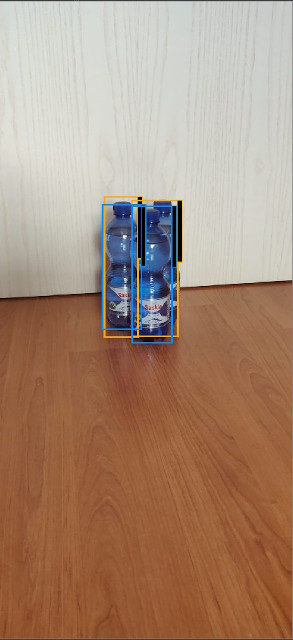
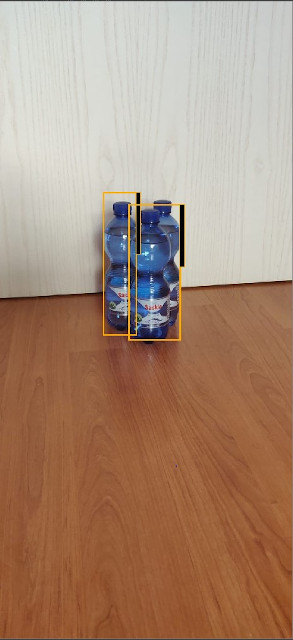
projectwork: finished yolo results

Changed region(s): [[0.3379, 0.2812, 0.6451, 0.5625]]

diff --git a/ProjectWork/Inhalt/09_Ergebnisse/ergebnisse.tex b/ProjectWork/Inhalt/09_Ergebnisse/ergebnisse.tex
@@ -69,18 +69,22 @@ Die Detektion reagierte allerdings invariant gegenüber unterschiedlichen Hinter
 
 Um eine möglichst gute Aussage über den Vergleich der beiden Objektdetektoren treffen zu können kommt bei \textit{YOLO} der exakt gleiche Trainings- und Testdatensatz wie beim \textit{SSD} zum Einsatz. Das Training von \textit{YOLO} ergab eine \textit{mAP} von 80.36\%. Abbildung \ref{yolo_result} zeigt die Verbesserung des Modells während dem Trainingsprozess. 
 
-\begin{figure}[ht]
+\begin{figure}[H]
 	\begin{center}
 		\includegraphics[width=13cm]{Bilder/yolo_result.png} 
-		\caption{Entwicklung von \textit{text} und \textit{mAP} während dem Trainingsprozess von \textit{YOLO}}
+		\caption{\textit{YOLO}: Entwicklung von durchschnittlichem Verlust (avg loss) und \textit{mAP} während dem Training}
 		\label{yolo_result}
 	\end{center}
 \end{figure}
 
-Wie beim \textit{SSD} erreicht das Modell relativ frühzeitig nach bereits etwa 4000 Batches eine \textit{mAP} von 79\%, woraufhin das Training vor Erreichung der durch die Dokumentation nahegelegte maximale Anzahl an Batches abgebrochen wurde. Das kann darauf zurückgeführt werden, dass es sich bei den gelabelten Klassen um Objekte des gleichen Typs handelt. Tabelle \ref{table:yoloresults} zeigt die \textit{mAP} für jede gelabelte Klasse:
+Wie beim \textit{SSD} erreicht das Modell relativ frühzeitig nach bereits etwa 3600 Batches eine \textit{mAP} von 79\%. Das Training wurde daher vor Erreichung der durch die Dokumentation nahegelegte maximale Anzahl an Batches nach 11000 Batches abgebrochen. Das kann darauf zurückgeführt werden, dass es sich bei den gelabelten Klassen um Objekte des gleichen Typs handelt und das Modell dementsprechend leichter trainiert werden kann. 
+
+Der \textit{confidence score} liegt standardmäßig bei 0.25. Nach mehreren Durchläufen stellt sich heraus, dass dieser Wert nicht verändert werden sollte. Ein zu geringer Wert sorgt zwar dafür, dass möglicherweise mehr Objekte erkannt werden. Allerdings steigt damit auch die Rate an falsch erkannter Objekte. Ein Parameter für die Obergrenze der Überlappung zweier Bounding Boxen existiert nicht.
+
+Tabelle \ref{table:yoloresults} zeigt die \textit{mAP} für jede gelabelte Klasse:
 
 \begin{center}
-	\begin{tabular}[h]{l|c}
+	\begin{tabular}[H]{l|c}
 		Klasse & mAP \\
 		\hline
 		Saskia Wasser Groß & 76.69\% (-0.93\%)\\
@@ -99,7 +103,7 @@ Wie beim \textit{SSD} erreicht das Modell relativ frühzeitig nach bereits etwa 
 
 Auffällig niedrig ist die \textit{mAP} der Klassen \textit{Pepsi Cola Groß} und \textit{Pepsi Cola Klein}. Ein reiner Wertevergleich gibt jedoch keinen guten Einblick in den tatsächlichen Unterschied der zwei trainierten Modelle. Deshalb wird im folgenden das Detektionsverhalten auf den gleichen Bildern wie zuvor bei SSD evaluiert:
 
-\begin{figure}[ht]
+\begin{figure}[H]
 	\centering
 	\subfigure[verdeckt]{\includegraphics[width=0.30\textwidth]{Bilder/yolo_verdeckt.jpg}}
 	\hspace{2cm}
@@ -107,36 +111,39 @@ Auffällig niedrig ist die \textit{mAP} der Klassen \textit{Pepsi Cola Groß} un
 	\caption{Detektionsverhalten von \textit{YOLO} bei extremen Blicklagen}
 	\label{lagen_yolo}
 \end{figure}
- 
-\begin{figure}[ht]
+
+Auch bei \textit{YOLO} können verdeckte Objekte nur schwer erkannt werden. Ein Unterschied zeigt sich bei der Ansicht von oben (siehe Abbildung \ref{lagen_yolo}). Hier werden zwei von drei Flaschen erkannt, die allerdings der falschen Klasse (\textit{Saskia Wasser Groß} statt \textit{Saskia Wasser Klein}) zugeordnet werden und eine der zwei Bounding Boxes zwei Flaschen umschließt.
+
+\begin{figure}[H]
 	\subfigure[1 Meter]{\includegraphics[width=0.30\textwidth]{Bilder/yolo_entfernung1.jpg}}\hfill
 	\subfigure[2 Meter]{\includegraphics[width=0.30\textwidth]{Bilder/yolo_entfernung2.jpg}}\hfill
 	\subfigure[3 Meter]{\includegraphics[width=0.30\textwidth]{Bilder/yolo_entfernung3.jpg}}\hfill
 	\caption{Detektionsverhalten von \textit{YOLO} bei unterschiedlichen Entfernungen}
 	\label{entfernung_yolo}
 \end{figure}
+
+Wie bei \textit{SSD} erfolgt nach bereits drei Metern Entfernung keine Detektion mehr (siehe Abbildung \ref{entfernung_yolo}). Der \textit{confidence score} für die korrekt erkannte Bounding Box liegt bei nur 2\%. Beide Modelle sind damit für große Distanzen zwischen der Drohne und den Objekten ungeeignet.
  
- \begin{figure}[ht]
- 	\subfigure[überbeleuchtet]{\includegraphics[width=0.30\textwidth]{Bilder/yolo_beleuchtung1.jpg}}\hfill
- 	\subfigure[normal]{\includegraphics[width=0.30\textwidth]{Bilder/yolo_beleuchtung2.jpg}}\hfill
+\begin{figure}[H]
+ 	\subfigure[überbeleuchtet]{\includegraphics[width=0.30\textwidth]{Bilder/yolo_beleuchtung2.jpg}}\hfill
+ 	\subfigure[normal]{\includegraphics[width=0.30\textwidth]{Bilder/yolo_beleuchtung1.jpg}}\hfill
  	\subfigure[unterbeleuchtet]{\includegraphics[width=0.30\textwidth]{Bilder/yolo_beleuchtung3.jpg}}\hfill
  	\caption{Detektionsverhalten von \textit{YOLO} bei unterschiedlichen Beleuchtungsverhältnissen}
  	\label{sicht_yolo}
- \end{figure}
+\end{figure}
+
+Beim Testen der verschiedenen Beleuchtungsverhältnisse fällt auf, dass im Gegensatz zum \textit{SSD} die Flasche in der unterbelichteten Umgebung nicht erkannt wird bzw. nur mit einem \text{confidence score} von 6\%. 
  
 \section{Reaktionsvermögen}
 
 Bei der Inferenz fällt allerdings entgegen der Erwartungen auf, dass die Inferenz überdurchschnittlich langsam verläuft. Das Problem lässt sich auf die synchrone Arbeitsweise der bisherigen Detektionsalgorithmen zurück führen, bei dem erst ein neuer Frame des Videostreams angefragt wird, sobald das aktuelle Bild durch die Vorverarbeitung gelaufen ist und durch das Modell inferiert wurde. 
 
-Um dem entgegen zu wirken, wurde ein Bufferkonzept in einem parallelem Thread realisiert, der einzelne Frames zeitgleich zur Inferenz anfragt und zwischenspeichert. Ist der Buffer voll, so werden nach dem \textit{First In First Out} Verfahren die älteren Frames verworfen. Dadurch konnte die FPS Anzahl von \textit{SSD} von maximal 18 auf die vollen 30 gesteigert werden. Dadurch sollten sämtliche Änderungen in der Umgebung rechtzeitig vom Objektdetektor erkannt werden. 
+Um dem entgegen zu wirken, wurde ein Bufferkonzept in einem parallelem Thread realisiert, der einzelne Frames zeitgleich zur Inferenz anfragt und zwischenspeichert. Ist der Buffer voll, so werden nach dem \textit{First In First Out} Verfahren die älteren Frames verworfen. Dadurch konnte die FPS Anzahl von \textit{SSD} von maximal 18 auf die vollen 30 und bei \textit{YOLO} von 20 auf 28 gesteigert werden. Dadurch sollten sämtliche Änderungen in der Umgebung rechtzeitig vom Objektdetektor erkannt werden. 
 
-Ein weiteres Problem beschreibt die initiale Latenz zwischen der Inferenz und der Bildaufnahme. Die Inferenz kann erst gestartet werden, sobald die Gewichtungen des Modells initialisiert wurden. Dies lässt sich umgehen, indem entweder der Thread zur Bildaufnahme verzögern gestartet wird oder dessen Buffer kleiner gewählt wird.
-
-TODO:
-  - YOLO FPS
+Ein weiteres Problem beschreibt die initiale Latenz zwischen der Inferenz und der Bildaufnahme. Die Inferenz kann erst gestartet werden, sobald die Gewichtungen des Modells initialisiert und geladen wurden. Bei \textit{YOLO} benötigt die Initialisierung etwa drei Sekunden. Das lässt sich umgehen, indem entweder der Thread zur Bildaufnahme verzögern gestartet wird oder dessen Buffer kleiner gewählt wird.
 
 \section{Trainingsverhalten}
 
-Eine Epoche lokales Training mit anschließendem Testen des Durchlaufs beim \textit{SSD} auf einer \textit{NVIDIA GTX 1080} dauert im Schnitt neun Minuten. Die Messung basiert auf einer Batch Größe von 16 Bildern bei insgesamt 998 Bildern pro Epoche. Insgesamt wurden 16,5 Stunden zum Erstellen eines Modells mit dem \textit{SSD} benötigt. Beim Training von \textit{YOLO} benötigt eine Batch mit einer Größe von 64 etwa eine Minute und 30 Sekunden, bis zur Erreichung des optimalen Modells vergehen etwa acht Stunden. Die Dauer der beiden Trainingsdurchläufe lässt sich allerdings nur schwer vergleichen. Zum einen wird für das Training von \textit{YOLO} wie im vorherigen Kapitel erwähnt eine andere GPU verwendet, deren Tensor Kerne den Trainingsprozess merklich beschleunigen. Zum anderen werden die beiden Objektdetektoren in zwei verschiedenen Frameworks implementiert, wodurch ein anderes Trainingsverhalten von Grund auf gegeben ist und Unterschiede in der Performance auftreten können. Bei beiden Trainings kann durch Ablage von sogenannten Modell-Checkpoints zu einem späteren Zeitpunkt mit dem Trainings fortgefahren werden. 
+Eine Epoche lokales Training mit anschließendem Testen des Durchlaufs beim \textit{SSD} auf einer \textit{NVIDIA GTX 1080} dauert im Schnitt neun Minuten. Die Messung basiert auf einer Batch Größe von 16 Bildern bei insgesamt 998 Bildern pro Epoche. Insgesamt wurden 16,5 Stunden zum Erstellen eines Modells mit dem \textit{SSD} benötigt. Beim Training von \textit{YOLO} benötigt eine Batch mit einer Größe von 64 etwa eine Minute und 30 Sekunden, bis zur Erreichung des optimalen Modells vergehen etwa acht Stunden. Die Dauer der beiden Trainingsdurchläufe lässt sich allerdings nur schwer vergleichen. Zum einen wird für das Training von \textit{YOLO} wie im vorherigen Kapitel erwähnt eine andere GPU verwendet, deren Tensor Kerne den Trainingsprozess merklich beschleunigen. Zum anderen werden die beiden Objektdetektoren in zwei verschiedenen Frameworks implementiert, wodurch ein anderes Trainingsverhalten von Grund auf gegeben ist und Unterschiede in der Performance auftreten können. Bei beiden Verfahren kann das Training durch die Ablage von sogenannten Modell-Checkpoints zu einem späteren Zeitpunkt fortgeführt werden. Das ist vor allem dann von Vorteil, wenn nachträglich Parameter oder Trainingsdaten angepasst werden, wodurch kein kompletter Neustart des Trainings erforderlich ist.
 
 
